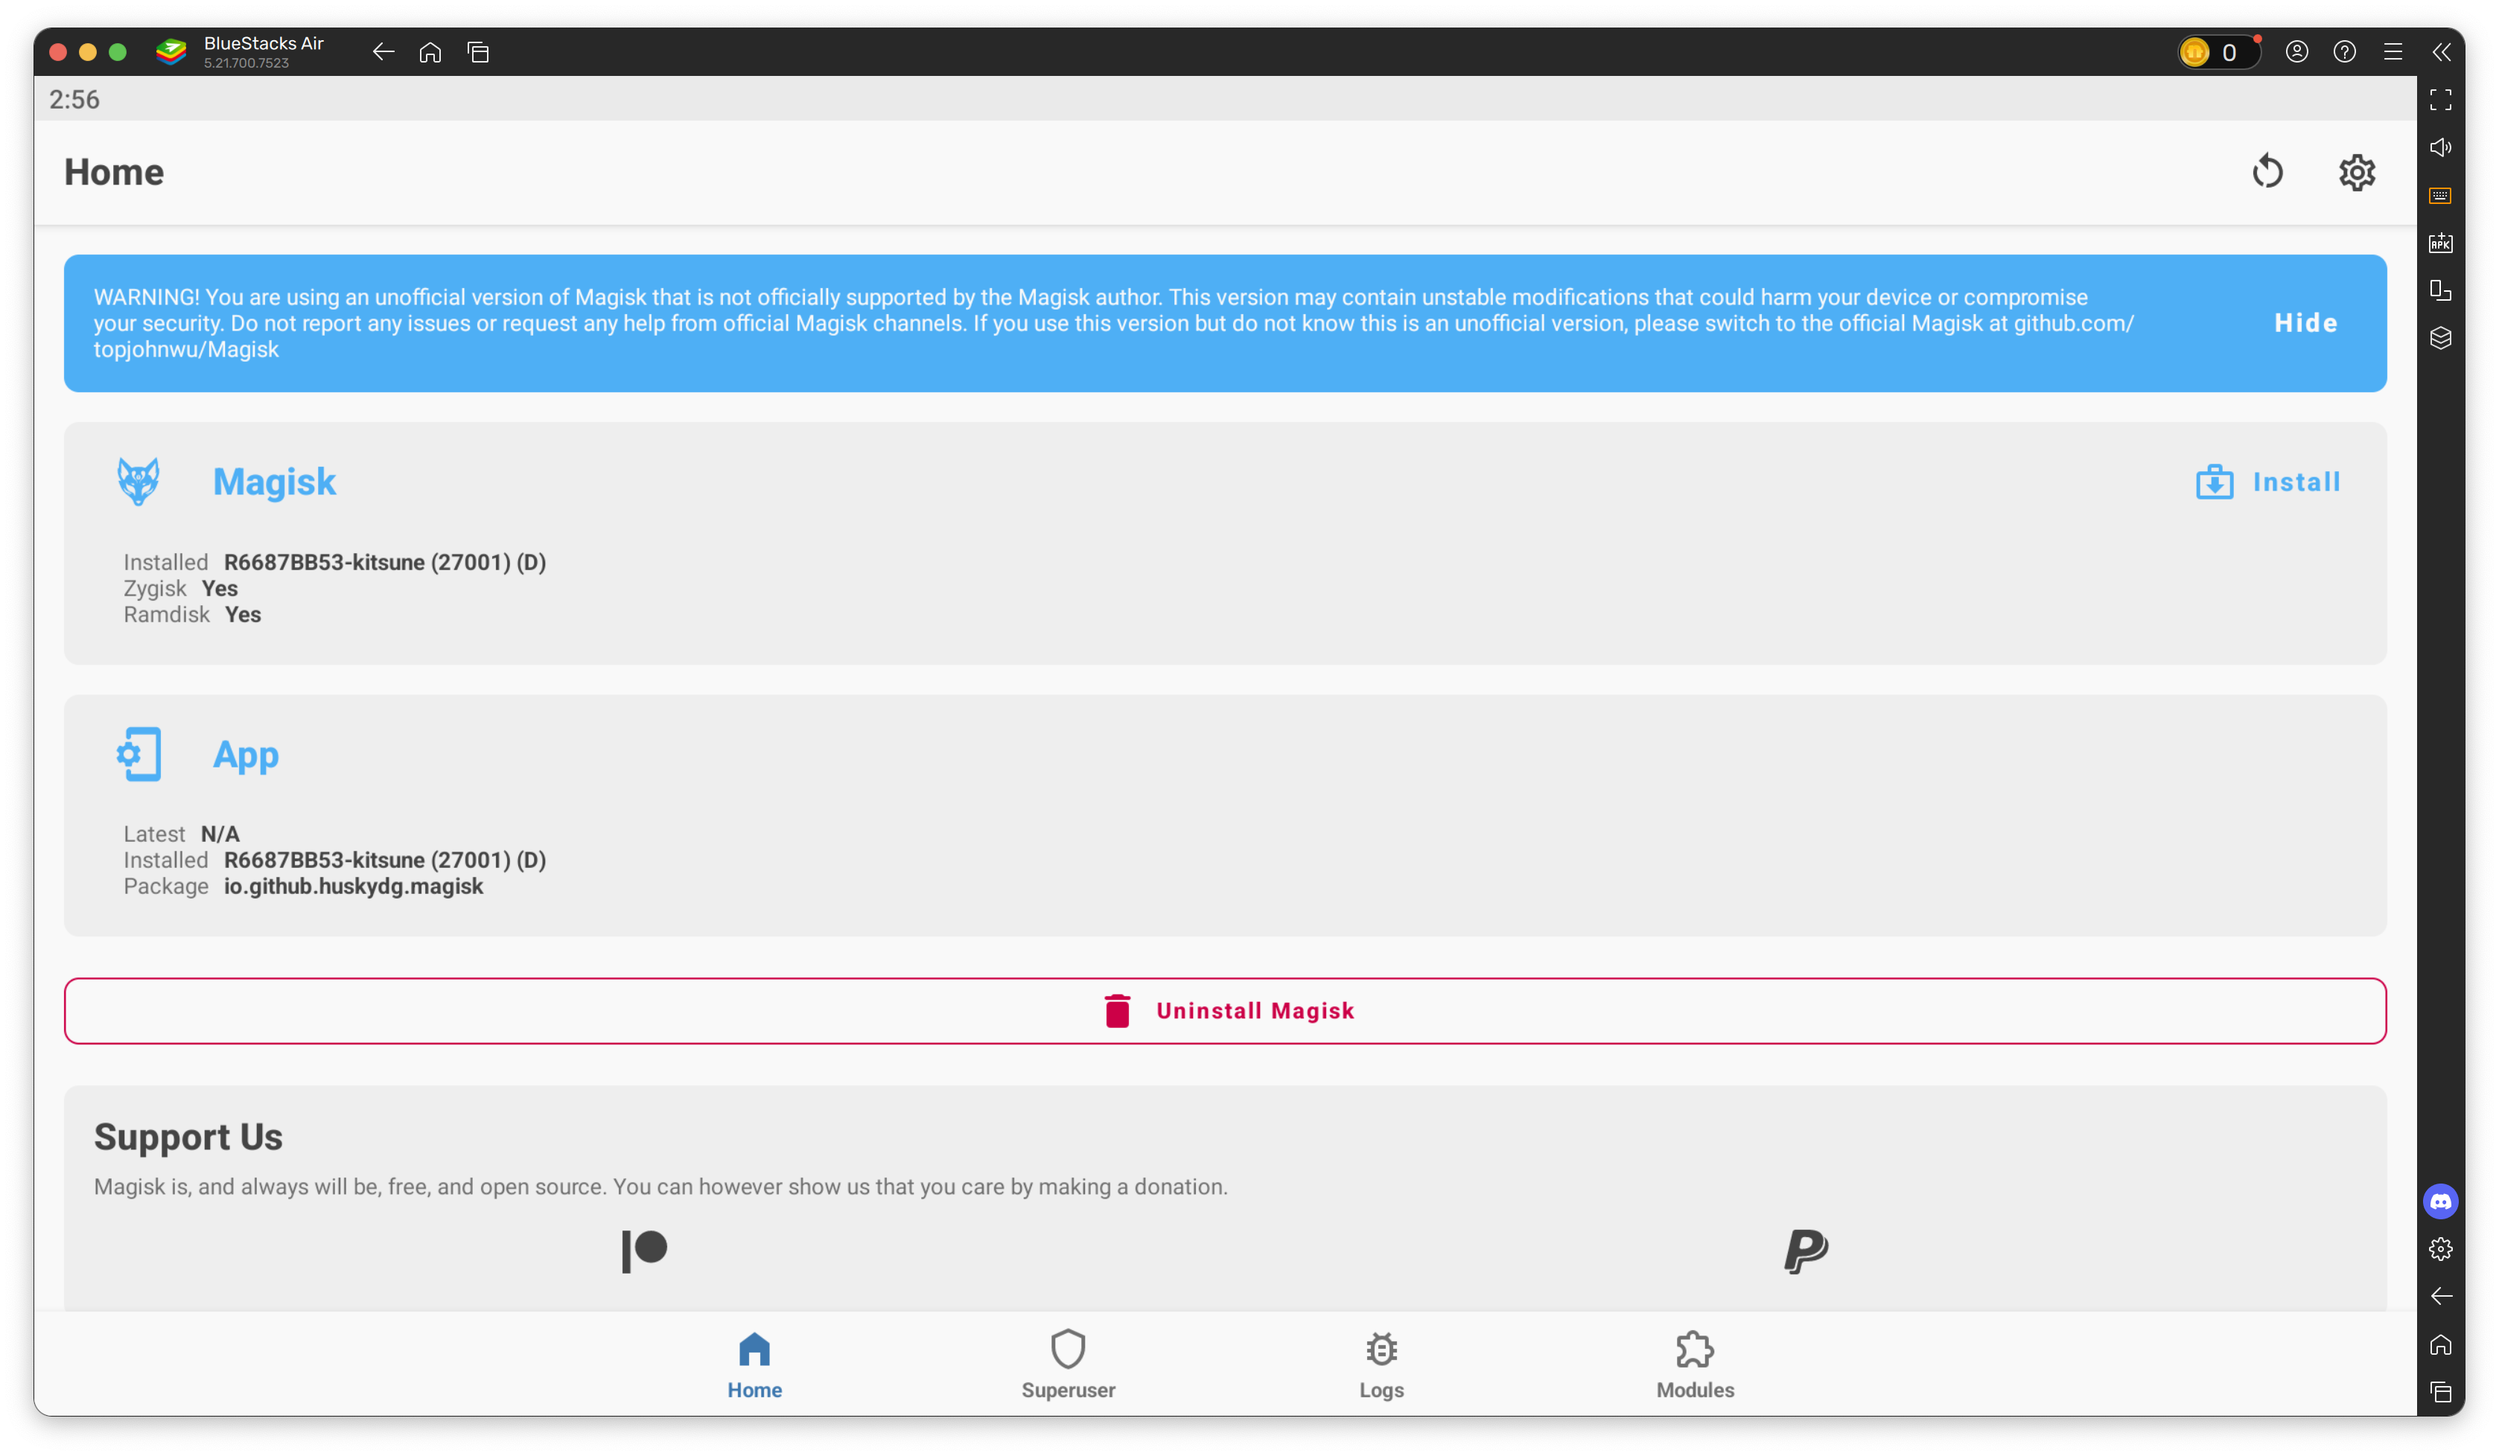
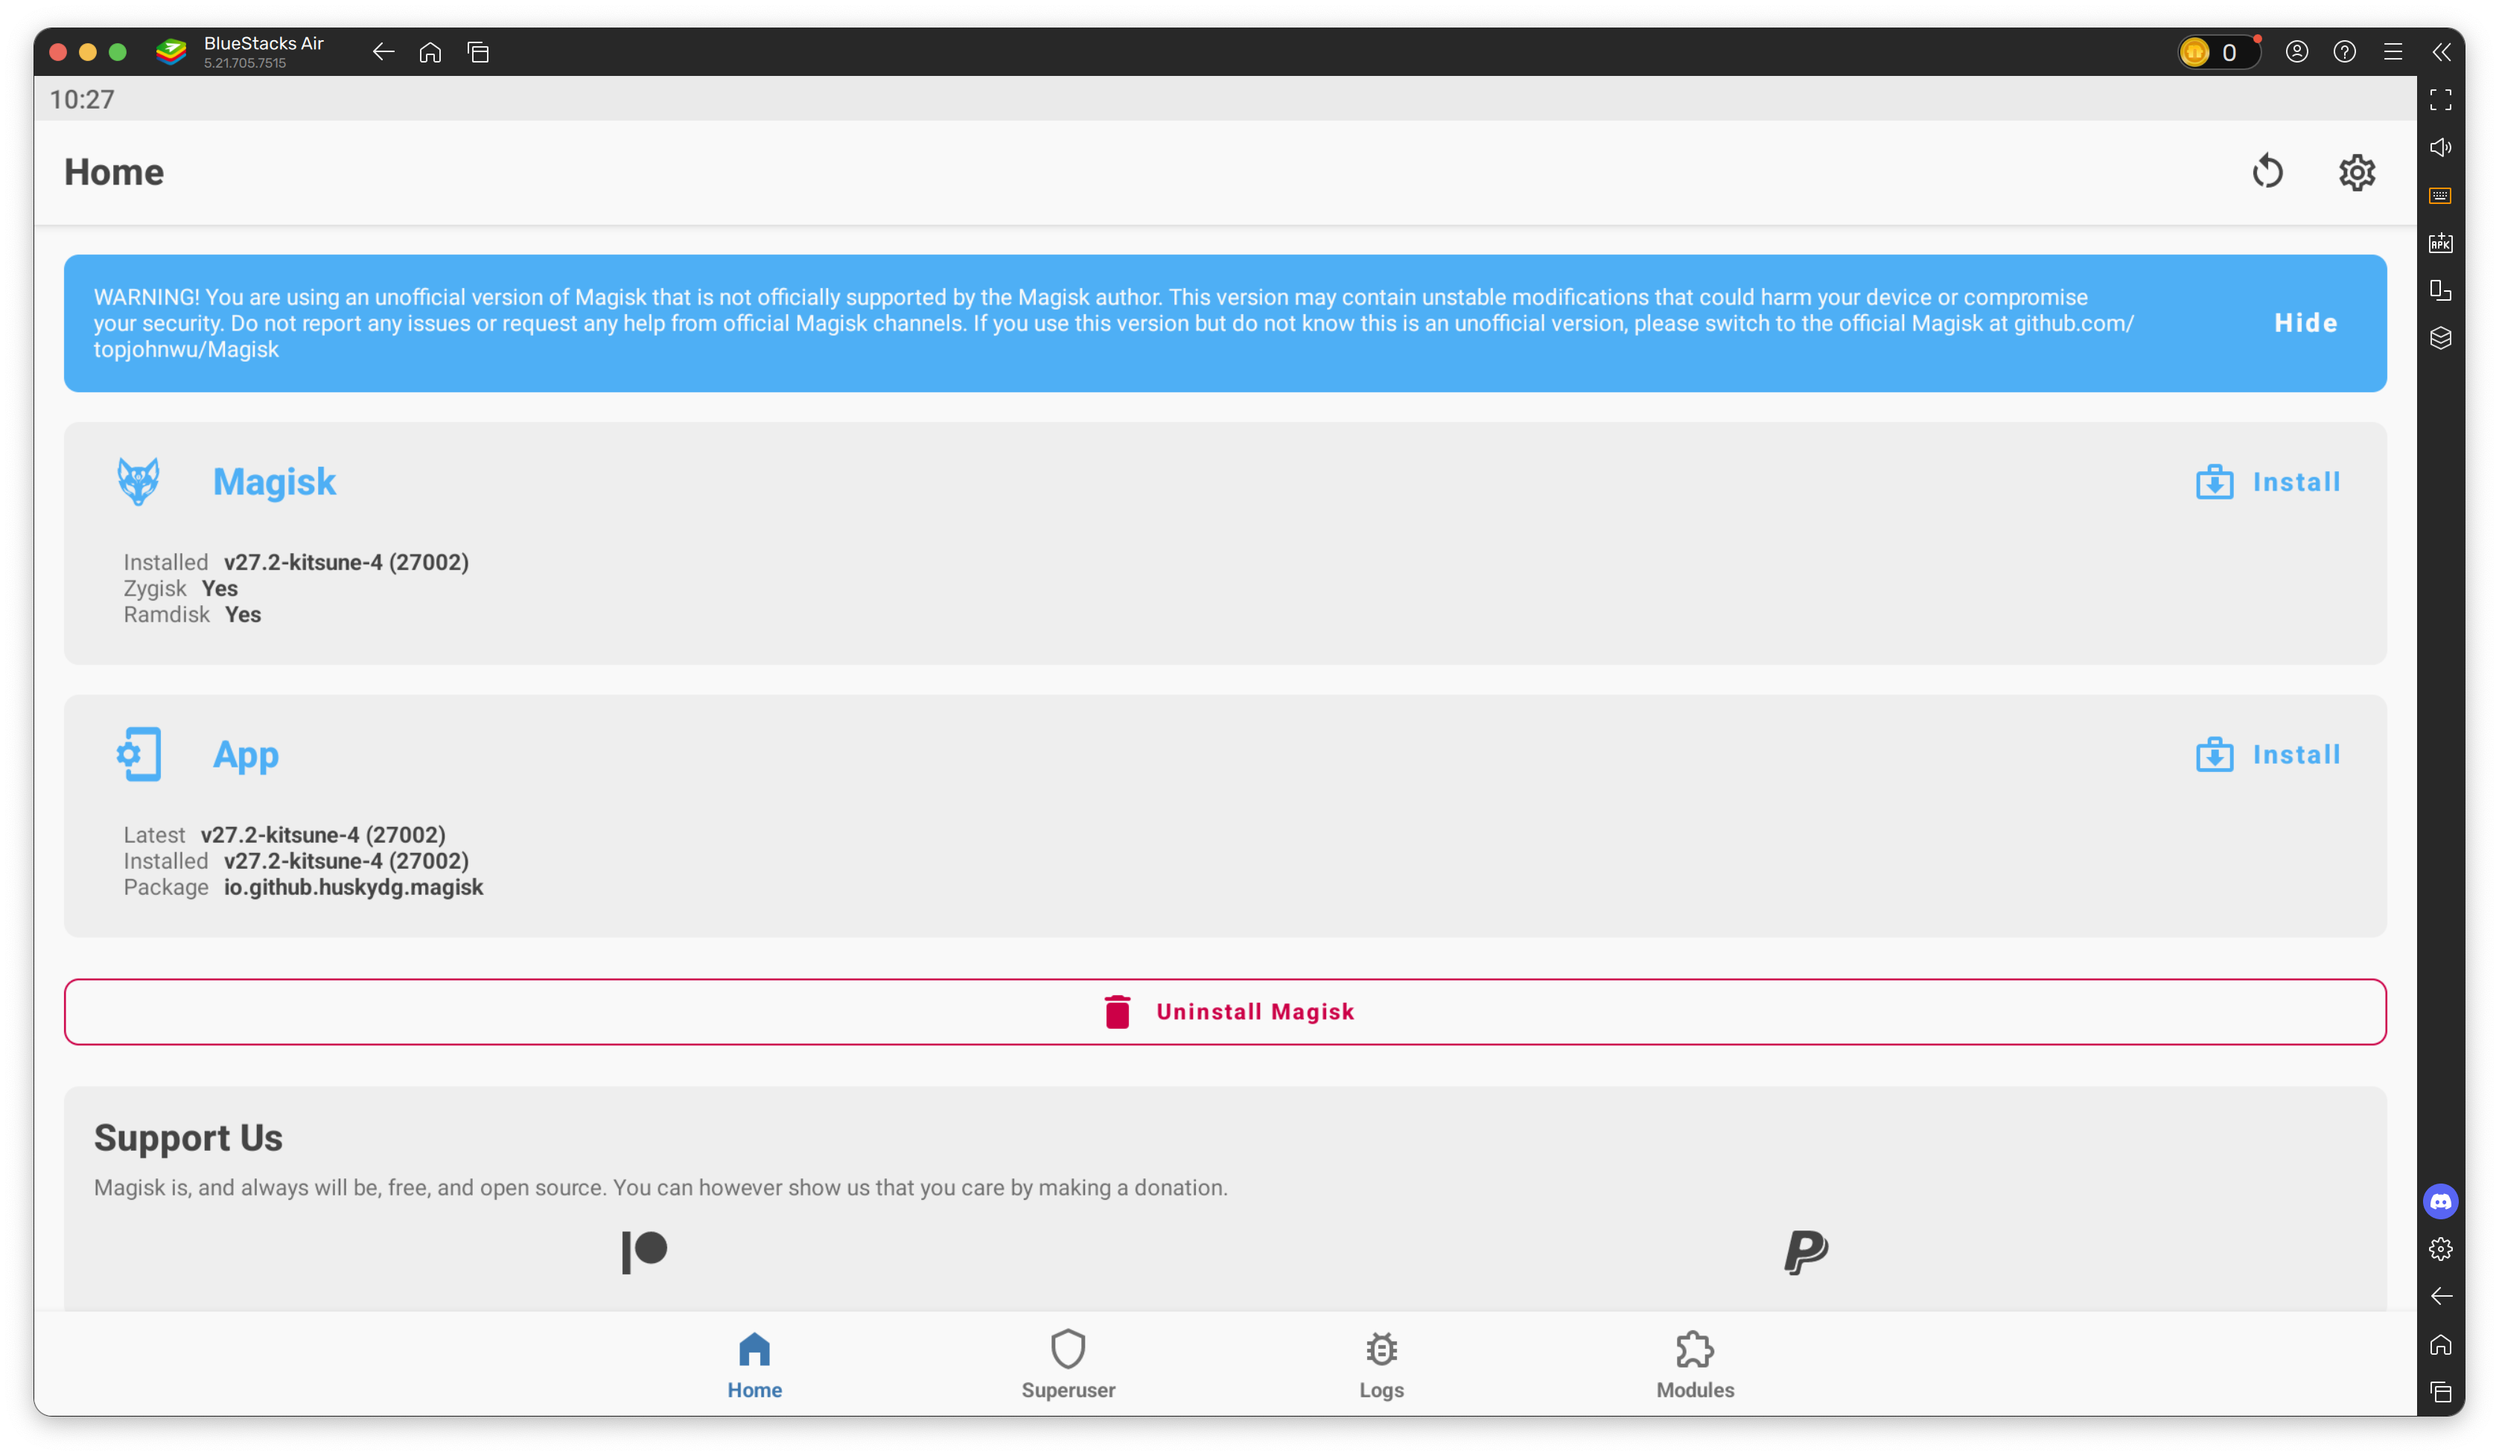
update README.md and screenshot

diff --git a/README.md b/README.md
@@ -5,6 +5,7 @@ Tested on BlueStacks Air
 - 5.21.680.7532
 - 5.21.695.7506
 - 5.21.700.7523
+- 5.21.705.7515
 
 
 ![Screenshot](bluestacks-air-root-magisk.png)
@@ -13,16 +14,20 @@ Tested on BlueStacks Air
 
 ## Requirements
 - [BlueStacks Air](https://www.bluestacks.com/mac)
-- [Kitsune Mask](https://github.com/HuskyDG/magisk-files/releases)
+- [Kitsune Magisk](https://github.com/1q23lyc45/KitsuneMagisk/releases)  
+  Tested version: v27.2-kitsune-4
 
 
 
 ## Rooting
+
+> **Note:** Rooting may fail on mac with System Integrity Protection (SIP) enabled. Ask Google about [*How to disable SIP*](https://www.google.com/search?q=how+to+disable+sip) and Gemini will show you how to do it.
+
 - Install BlueStacks Air
 - ‼ **REQUIRED** ‼ Open BlueStacks Air for the first time
 - Close BlueStacks Air
 - Download this repo and extract it
-- Copy Kitsune Mask to the project folder, and rename it to `magisk.apk`
+- Copy the downloaded Kitsune Mask apk to the project folder, and rename it to `magisk.apk`
 - Open **Terminal.app** or **iTerm.app** and navigate to the project folder
   ```bash
   cd ~/Downloads/root-bluestacks-air
